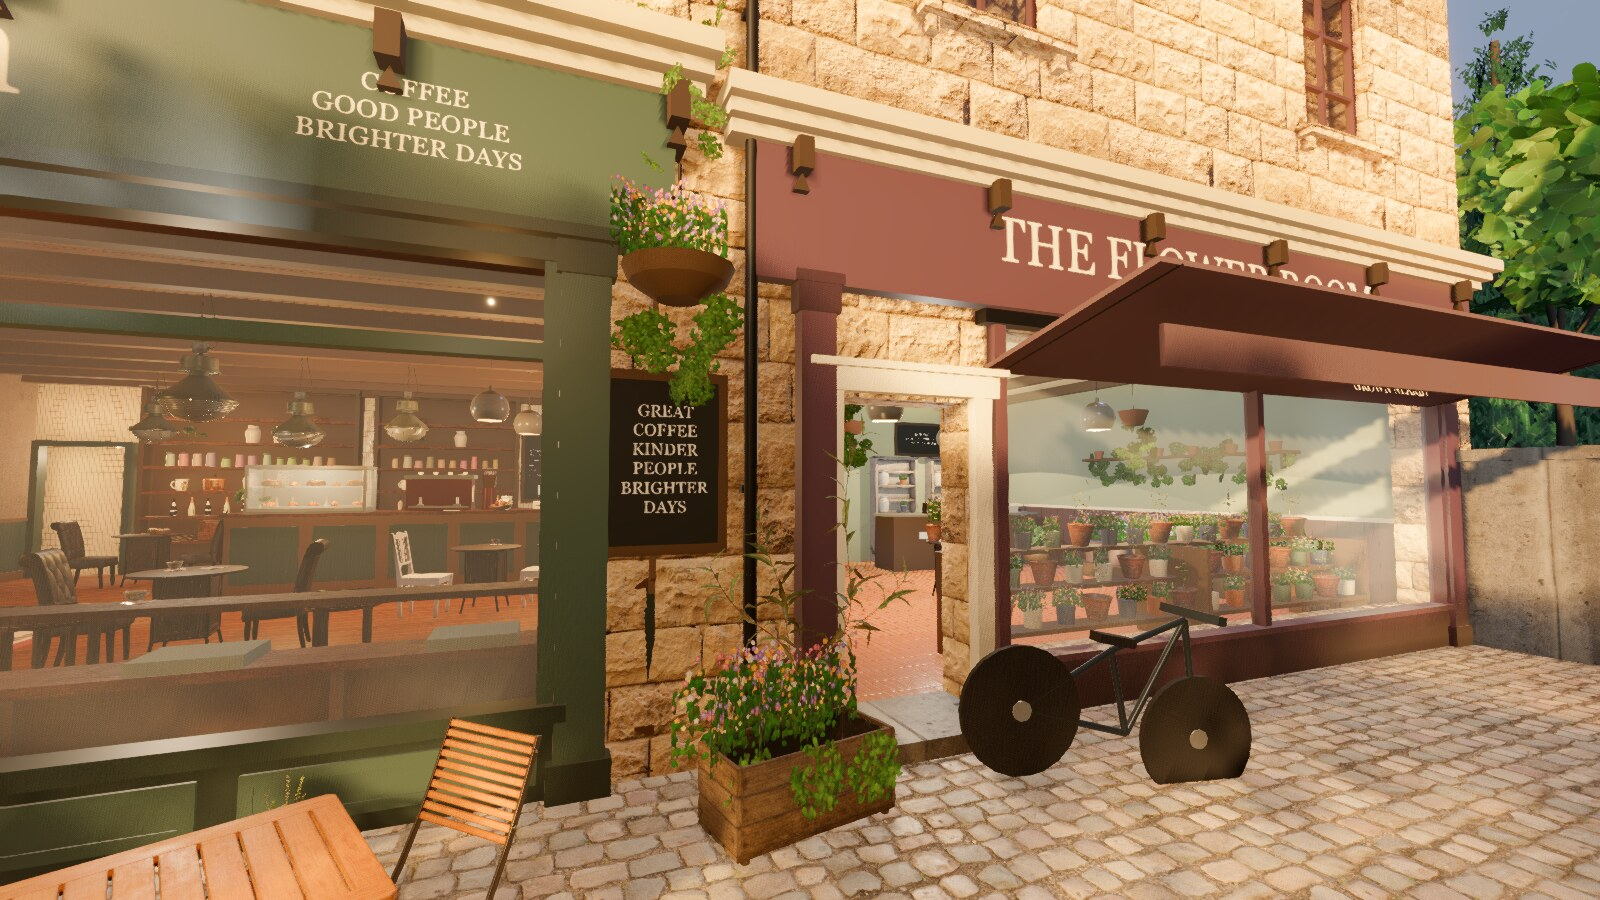
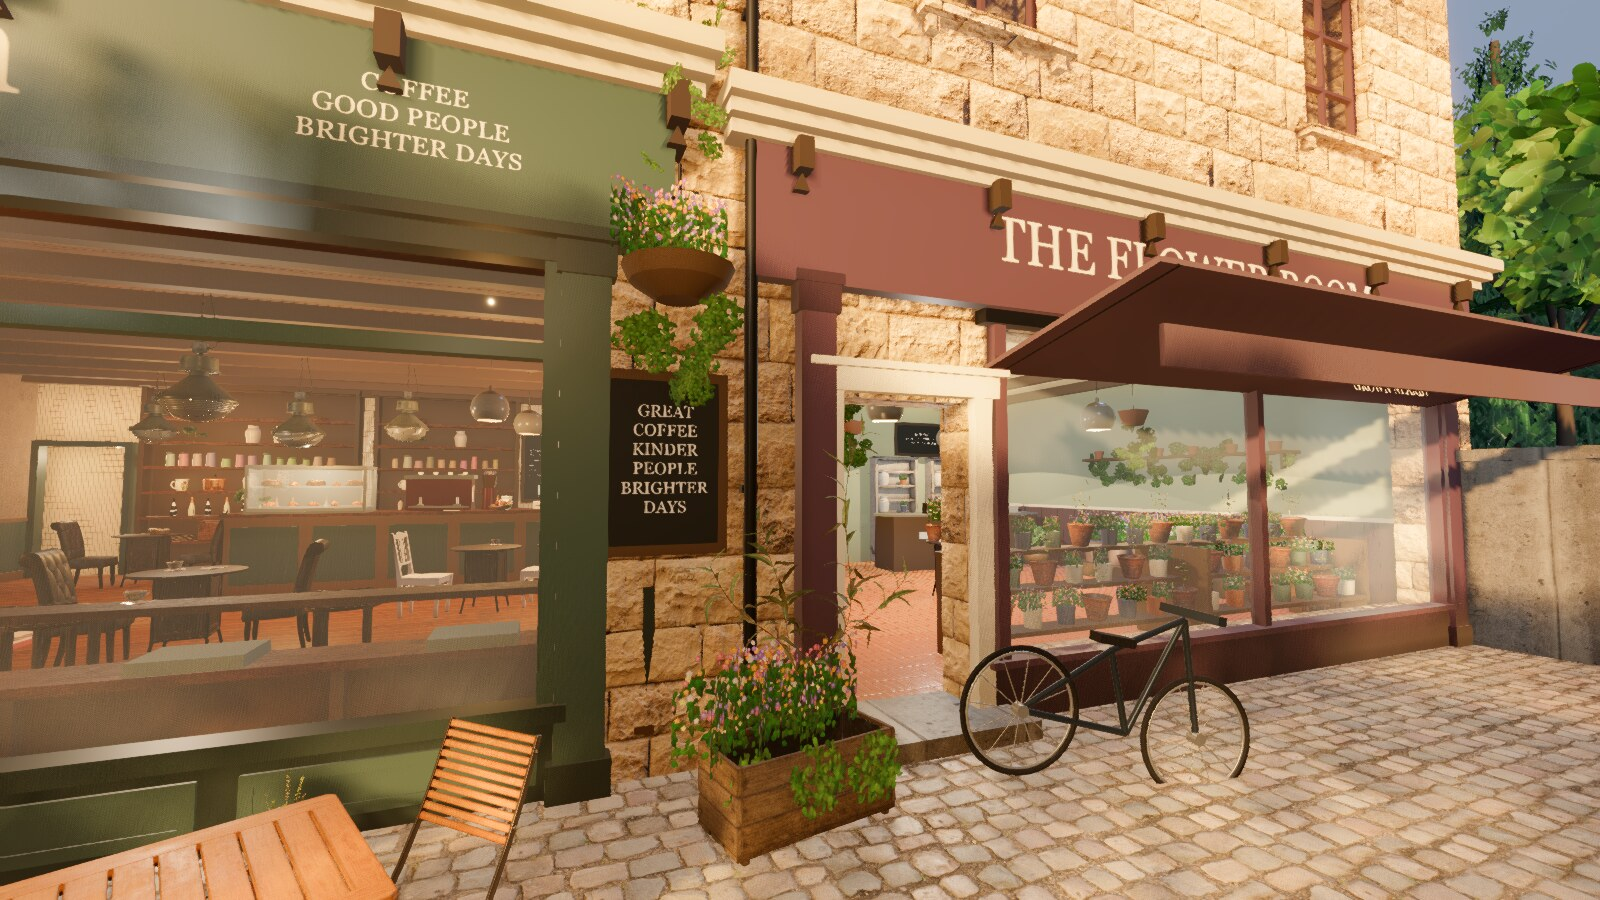
fix(3d): the bicycle's wheels are spoked rings, not solid black discs
Coordinator review of 10_second_building_door.jpg: the bicycle beside The
Flower Room had solid black disc wheels, no spokes or rim visible -- a toy.
The tyre and the rim were each Profile.disc, a filled cylinder (0.345 m and
0.30 m), which covered the ten spokes behind them.

Now a TorusMesh tyre (r 0.312-0.345), a separate steel rim ring
(0.296-0.312), twelve thin spokes and a hub. Verified at 3x magnification:
the paving shows through between the spokes.

Every bicycle in the slice is this one builder, called once (x 12.4);
props.gd's Props.bicycle is the promenade scene's and the slice never calls it.
Preview frame 10_second_building_door.jpg re-captured; the review entry lists
the fix.

Changed region(s): [[0.5938, 0.7156, 0.7812, 0.8711]]

diff --git a/docs/HUMAN_REVIEW_QUEUE.md b/docs/HUMAN_REVIEW_QUEUE.md
@@ -219,6 +219,7 @@ resumed Unreal track builds the same second interior and A/B stays like-for-like
 | window lettering | `03`: crisp cream upright serif, centred | thin white script, barely legible | cream serif, centred, opaque; all four words read at 1600×900 |
 | rug | — | one flat colour | a woven flat-weave pattern, generated in-engine |
 | roofs | — | — | **a defect found and fixed:** every pitched roof had its ridge tile turned front-to-back, a dark bar over Maple & Co. at `05`'s framing |
+| bicycle | `05`: a spoked bicycle against the kerb | — | **a defect found in review and fixed:** the slice's one bicycle, beside The Flower Room, had solid black disc wheels that hid its spokes and read as a toy. Now a tyre ring, a steel rim and twelve spokes, checked at 3× in `10_second_building_door.jpg` |
 
 **Measured** (`--threshold`, `--drive`, `--world --link`):
 
